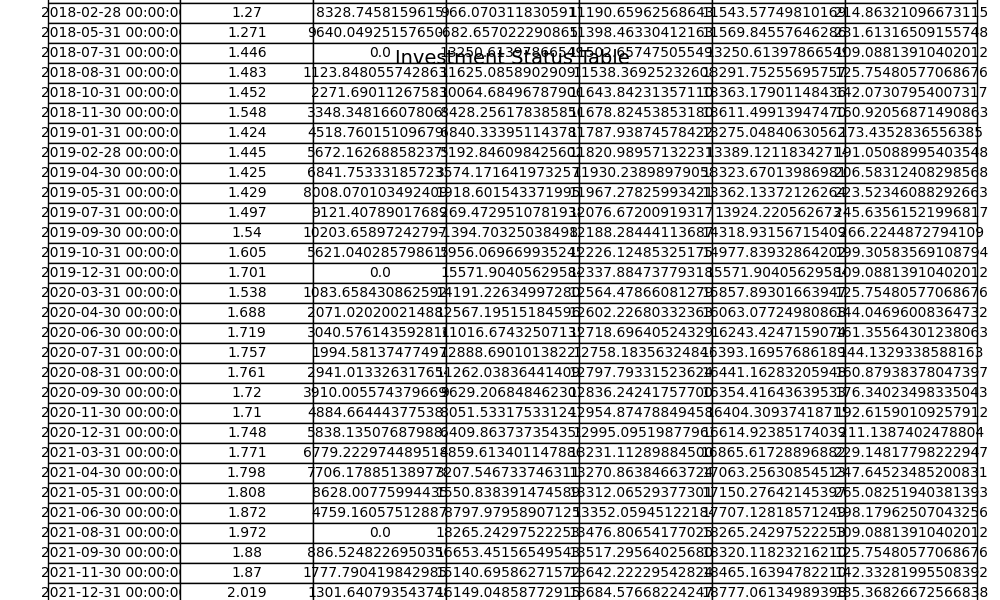
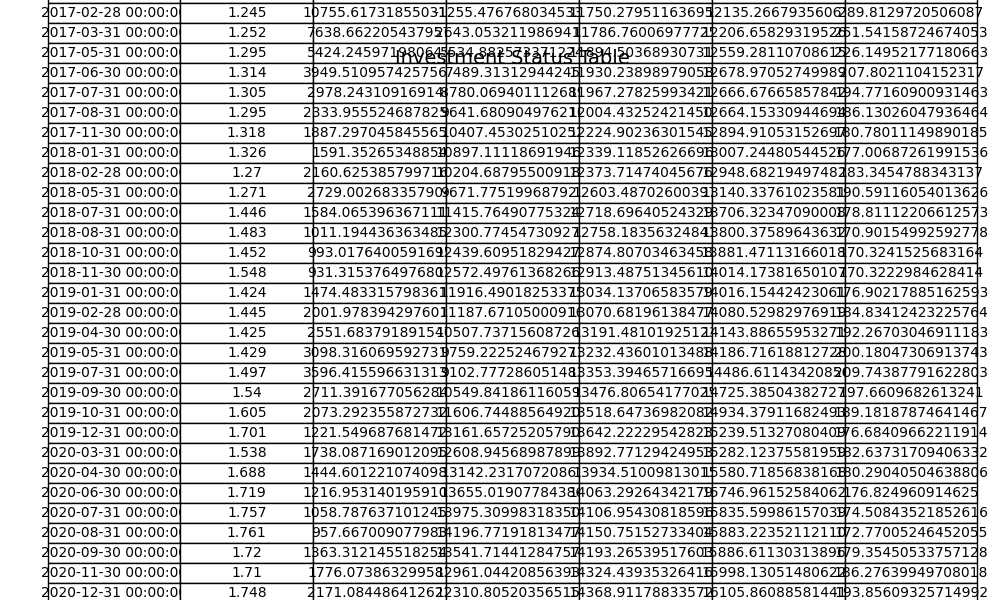
增加策略：越跌买的越多

diff --git a/test.py b/test.py
@@ -74,6 +74,7 @@ class CustomInvestmentStrategy:
         #remaining_months =  max_recovery_months
 
         # 开始投资模拟
+        monthly_investment = self.total_investment / max_recovery_months
         for date in times:
             # 计算从上一次投资到当前日期的天数
             days_diff = (date - self.last_investment_date).days
@@ -96,12 +97,20 @@ class CustomInvestmentStrategy:
             if last_sell_month == (current_year, current_month):
                 continue  # 如果已经卖出，则跳过买入
 
-            # 计算当前每月固定投资金额
-            monthly_investment = self.total_investment / max_recovery_months
-
-            # 每月固定投资金额
+            # 计算当前每月可变投资金额
+            if self.last_price is not None:
+                price_change = (price - self.last_price)/self.last_price
+                if price_change > 0:
+                    monthly_investment /= (1 + price_change)  # 上涨减少每月投资金额
+                    #monthly_investment = monthly_investment 
+                else :
+                    monthly_investment *= (1 - 2*price_change)  # 下跌增加每月投资金额
+            else:
+                price_change = 0
+            
             self.holding += monthly_investment / price  # 购买基金单位
             self.cash -= monthly_investment  # 减少现金
+            print(f"在 {date.date()} 买入，每月投资金额: {monthly_investment:.2f}, 现金: {self.cash:.2f}, 价格变化幅度: {price_change:.2%}")
             # 更新持仓成本
             self.holding_cost += monthly_investment  # 累加当前买入的成本
 
@@ -114,25 +123,26 @@ class CustomInvestmentStrategy:
 
             # 根据当前持仓的收益涨幅进行卖出判断
             if holding_gain_percentage > 10:
-                sell_amount = self.holding 
-                self.cash += sell_amount * price
-                self.holding -= sell_amount
-                # 更新持仓成本
-                #self.holding_cost -= (sell_amount * price) / self.holding  # 更新持仓成本（按比例分配）
-                self.holding_cost = 0  # 更新持仓成本（按比例分配）
-                last_sell_month = (current_year, current_month)  # 更新上一个卖出月份
-                print(f"在 {date.date()} 卖出一半，持仓: {self.holding}, 现金: {self.cash}")
-
-            elif holding_gain_percentage > 5:
-                sell_amount = self.holding / 2
+                sell_amount = self.holding /2
                 self.cash += sell_amount * price
                 self.holding -= sell_amount
                 # 更新持仓成本
                 #self.holding_cost -= (sell_amount * price) / self.holding  # 更新持仓成本（按比例分配）
                 self.holding_cost *= 1/2  # 更新持仓成本（按比例分配）
                 last_sell_month = (current_year, current_month)  # 更新上一个卖出月份
-                print(f"在 {date.date()} 卖出三分之一，持仓: {self.holding}, 现金: {self.cash}")
+                monthly_investment = self.total_investment / max_recovery_months  # 重新计算每月投资金额
+                print(f"在 {date.date()} 卖出一半，持仓: {self.holding}, 现金: {self.cash}")
 
+            elif holding_gain_percentage > 5:
+                sell_amount = self.holding / 3
+                self.cash += sell_amount * price
+                self.holding -= sell_amount
+                # 更新持仓成本
+                #self.holding_cost -= (sell_amount * price) / self.holding  # 更新持仓成本（按比例分配）
+                self.holding_cost *= 2/3  # 更新持仓成本（按比例分配）
+                last_sell_month = (current_year, current_month)  # 更新上一个卖出月份
+                print(f"在 {date.date()} 卖出三分之一，持仓: {self.holding}, 现金: {self.cash}")
+                monthly_investment = self.total_investment / max_recovery_months  # 重新计算每月投资金额
             self.last_price = price
             self.last_investment_date = date  # 更新最后投资日期
 
@@ -174,10 +184,7 @@ class CustomInvestmentStrategy:
         
         # 一次性买入后的总价值
         one_time_investment_value = self.total_investment * (self.status['price'] / self.status['price'].iloc[0])  # 假设一次性买入在开始时的价格
-        
-
-
-        
+    
         # 绘制图表
         plt.plot(self.status['date'], self.status['cash_growth_without_investment'], label='Cash (without Investment)', color='red', linestyle='--')  # 只绘制不投资的现金增长
         plt.plot(self.status['date'], self.status['cash'], label='Cash (with Interest)', color='blue')
@@ -215,7 +222,7 @@ class CustomInvestmentStrategy:
 
 # 使用自定义策略
 fund_code = '000369'  # 替换为实际基金代码
-start_date = '2016-01-01'
+start_date = '2014-01-01'
 end_date = '2023-12-31'  # 新增结束日期
 total_investment = 10000  # 总投资金额
 
